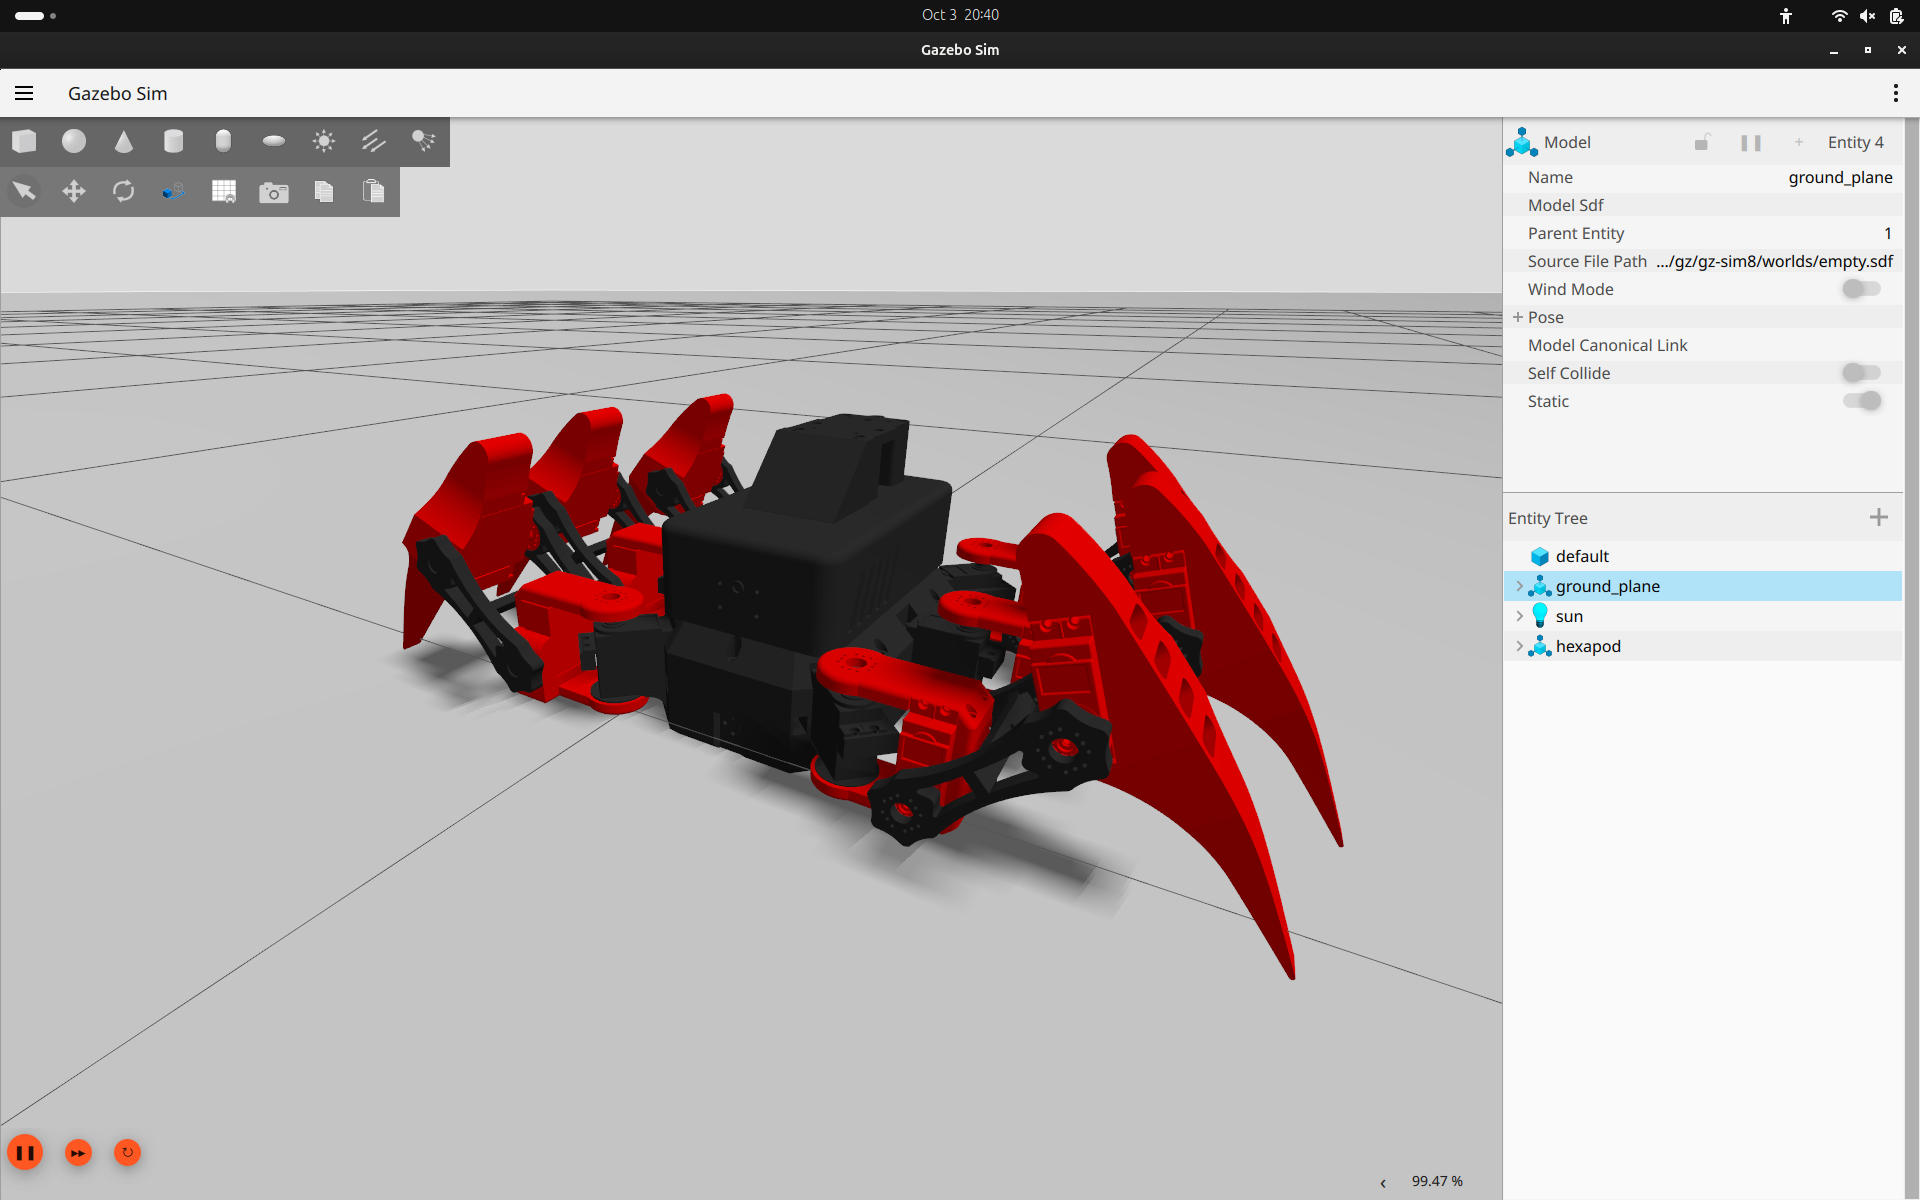
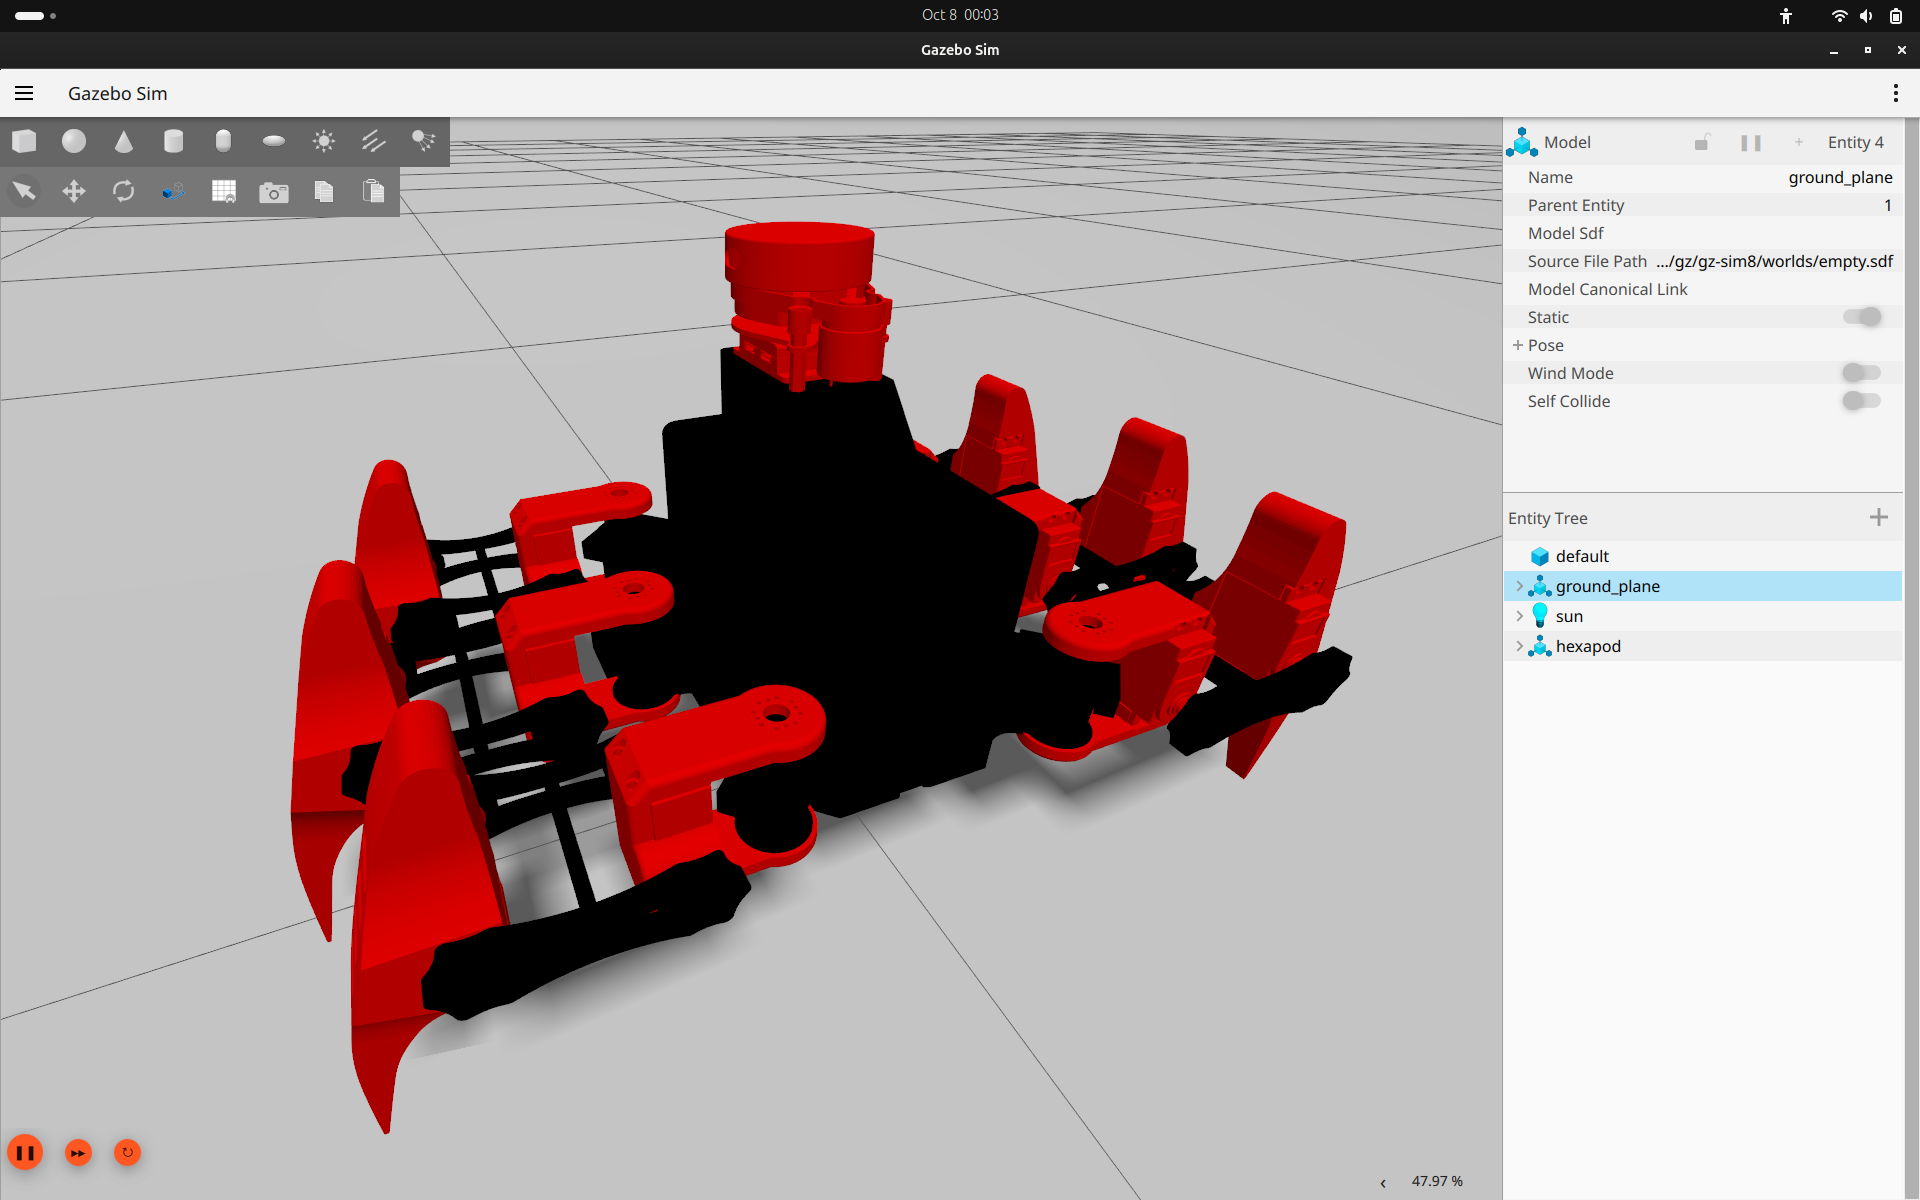
Simulation is almost working...

Changed region(s): [[0.0, 0.0925, 0.875, 0.9558], [0.9375, 0.2158, 1.0, 0.2775], [0.0, 0.185, 0.0312, 0.2158]]

diff --git a/ros2_ws/src/hexapod_description/launch/sim.launch.py b/ros2_ws/src/hexapod_description/launch/sim.launch.py
@@ -88,7 +88,7 @@ def generate_launch_description():
         arguments=[
             '-topic', 'robot_description',
             '-name', 'hexapod',
-            '-z', '0.0',  # base_footprint is the world ground reference
+            '-z', '0.5',  # base_footprint is the world ground reference
         ],
         output='screen'
     )
